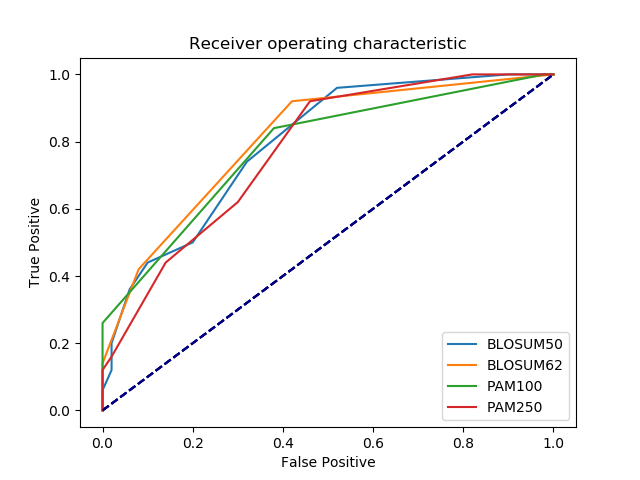
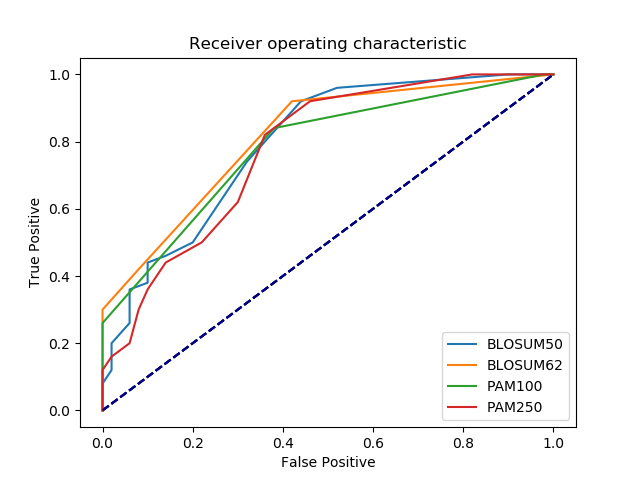
ah

diff --git a/smith_waterman/smith2.py b/smith_waterman/smith2.py
@@ -4,8 +4,7 @@ from read_PAM import read_matrix
 
 class local_alignment (object):
     """  
-        local_alignment takes a query string and a search string and uses
-        a version of the Smith-Waterman algorithm supporting gaps to find regions of alignment between the two.
+        local_alignment obviously my doods
     """
 
     def __init__(self, query, target, gap_penalty=-5, gap_extension=-2, score_dict=None):
@@ -29,12 +28,12 @@ class local_alignment (object):
 
         return
 
-    def score(self):    # This method performs SW scoring and returns a string describing the resulting alignment
+    def score(self):    
 
         highscore = high_i = high_j = 0       # highest scores encountered so far in the matrix
 
-        best_q_alignment = []  # Keep track of best for the query sequence
-        best_t_alignment = []  # Keep track of best for the target sequence 
+        best_q_alignment = []  
+        best_t_alignment = []  
 
         for i in range(self.querylen):  # score the left edge
 
@@ -70,7 +69,7 @@ class local_alignment (object):
                     query_gap_score = self.table[i - 1][j] + self.gap_penalty     # in either the target or query
 
                 best_score = max(
-                    (0, (0, 0)),                        # a 0 score will never have a traceback
+                    (0, (0, 0)),                        # 0 score will never have a traceback
                     (matchscore, (1, 1)),               # A match corresponds to a -1,-1 traceback
                     (target_gap_score, (0, 1)),         # A target gap corresponds to a 0, -1 traceback
                     (query_gap_score, (1, 0))           # A query gap corresponds to a -1, 0 traceback
@@ -94,7 +93,7 @@ class local_alignment (object):
                                                     # "low road" would be >=
 
                     highscore = self.table[i][j]    # record the new high score
-                    high_i = i                      # also record the i and j positions associated with that score
+                    high_i = i                      
                     high_j = j
 
 
@@ -127,24 +126,24 @@ class local_alignment (object):
         best_q_alignment.reverse()  # flip 'em both once we are done, since we built them "end-to-beginning"
         best_t_alignment.reverse()
 
-        return_string = '\nBest alignment had a score of ' + str(highscore) + ' and is:\n\nTarget:\t' + \
+        out_string = '\nAlignment score ' + str(highscore) + ' and is:\n\nTarget:\t' + \
             str(j + 2) + '\t' + ''.join(best_t_alignment) + '\n\t\t\t'
 
         for k in range(len(best_t_alignment)):     # t and q alignments should be the same length!
 
             if best_t_alignment[k] == best_q_alignment[k]:
 
-                return_string += ''    # Only put a bar if the two characters are identical at this position
+                out_string += ''    # Only put a bar if the two characters are identical at this position
 
             else:
 
-                return_string += ' '    # otherwise just insert a space
+                out_string += ' '    # otherwise just insert a space
 
-        return_string += '\nQuery:\t' + str(i + 2) + '\t' + ''.join(best_q_alignment) + '\n'
+        out_string += '\nQuery:\t' + str(i + 2) + '\t' + ''.join(best_q_alignment) + '\n'
 
 
         #print(highscore)
-        #return return_string
+        #return out_string
         return highscore
 
     def __str__(self):                         
@@ -179,12 +178,11 @@ if __name__ == "__main__":
 
     BLOSUM62 = read_matrix("../BLOSUM62")
 
-    ah3 = "MDSVCPQGKYIHPQNNSICCTKCHKGTYLYNDCPGPGQDTDCRECESGSFTASENHLRHC"
+    seq1 = "MDSVCPQGKYIHPQNNSICCTKCHKGTYLYNDCPGPGQDTDCRECESGSFTASENHLRHC"
 
-    ah4 = "LSCSKCRKEMGQVEISSCTVDRDTVCGCRKNQYRHYWSENLFQC"
-    #A = smithwaterman("DDMEVIGTAYNPDVLVLDIIMPHLDGLAV", "LVSMLESYVAAPDLILLDIMMPGMDGLEL",1,-2,-4,PAM1) #pass dictionary
+    seq2 = "LSCSKCRKEMGQVEISSCTVDRDTVCGCRKNQYRHYWSENLFQC"
     
-    A = local_alignment(ah3, ah4,-11,-1,BLOSUM62) #pass dictionary
+    A = local_alignment(seq1, seq2,-8,-3,BLOSUM62) #pass dictionary
 
     print(A.score())
 

diff --git a/smith_waterman/run.py b/smith_waterman/run.py
@@ -111,7 +111,7 @@ if __name__ == "__main__":
 
 	# Make ROC curves. Run once with normalize False and True
 	matrices = ["BLOSUM50","BLOSUM62","PAM100","PAM250"]
-	thresholds = [0,15,30,50,70,90,110,130,150,170,190,210,230,250,500]
+	thresholds = [0,10,15,30,50,60,70,80,90,100,110,120,130,140,150,160,170,180,190,200,210,230,250,500]
 	#thresholds = [.1,.2,.4,.6,.8,1,1.2,1.4,1.6,1.8,2,2.2,2.4]
 	gap_p = -8
 	gap_e = -3
@@ -123,8 +123,7 @@ if __name__ == "__main__":
 			
 			tp,fp = calculate_tp_fp(pos_matches,neg_matches,sequences,
 				threshold,gap_p,gap_e,matrix_dict, normalize = False)
-			# print(tp,fp)
-			#print(tp,fp)
+
 			r.add_rates(tp,fp)
 		r.plot_ROC(lab=matrix)
 		r.new_curve()
